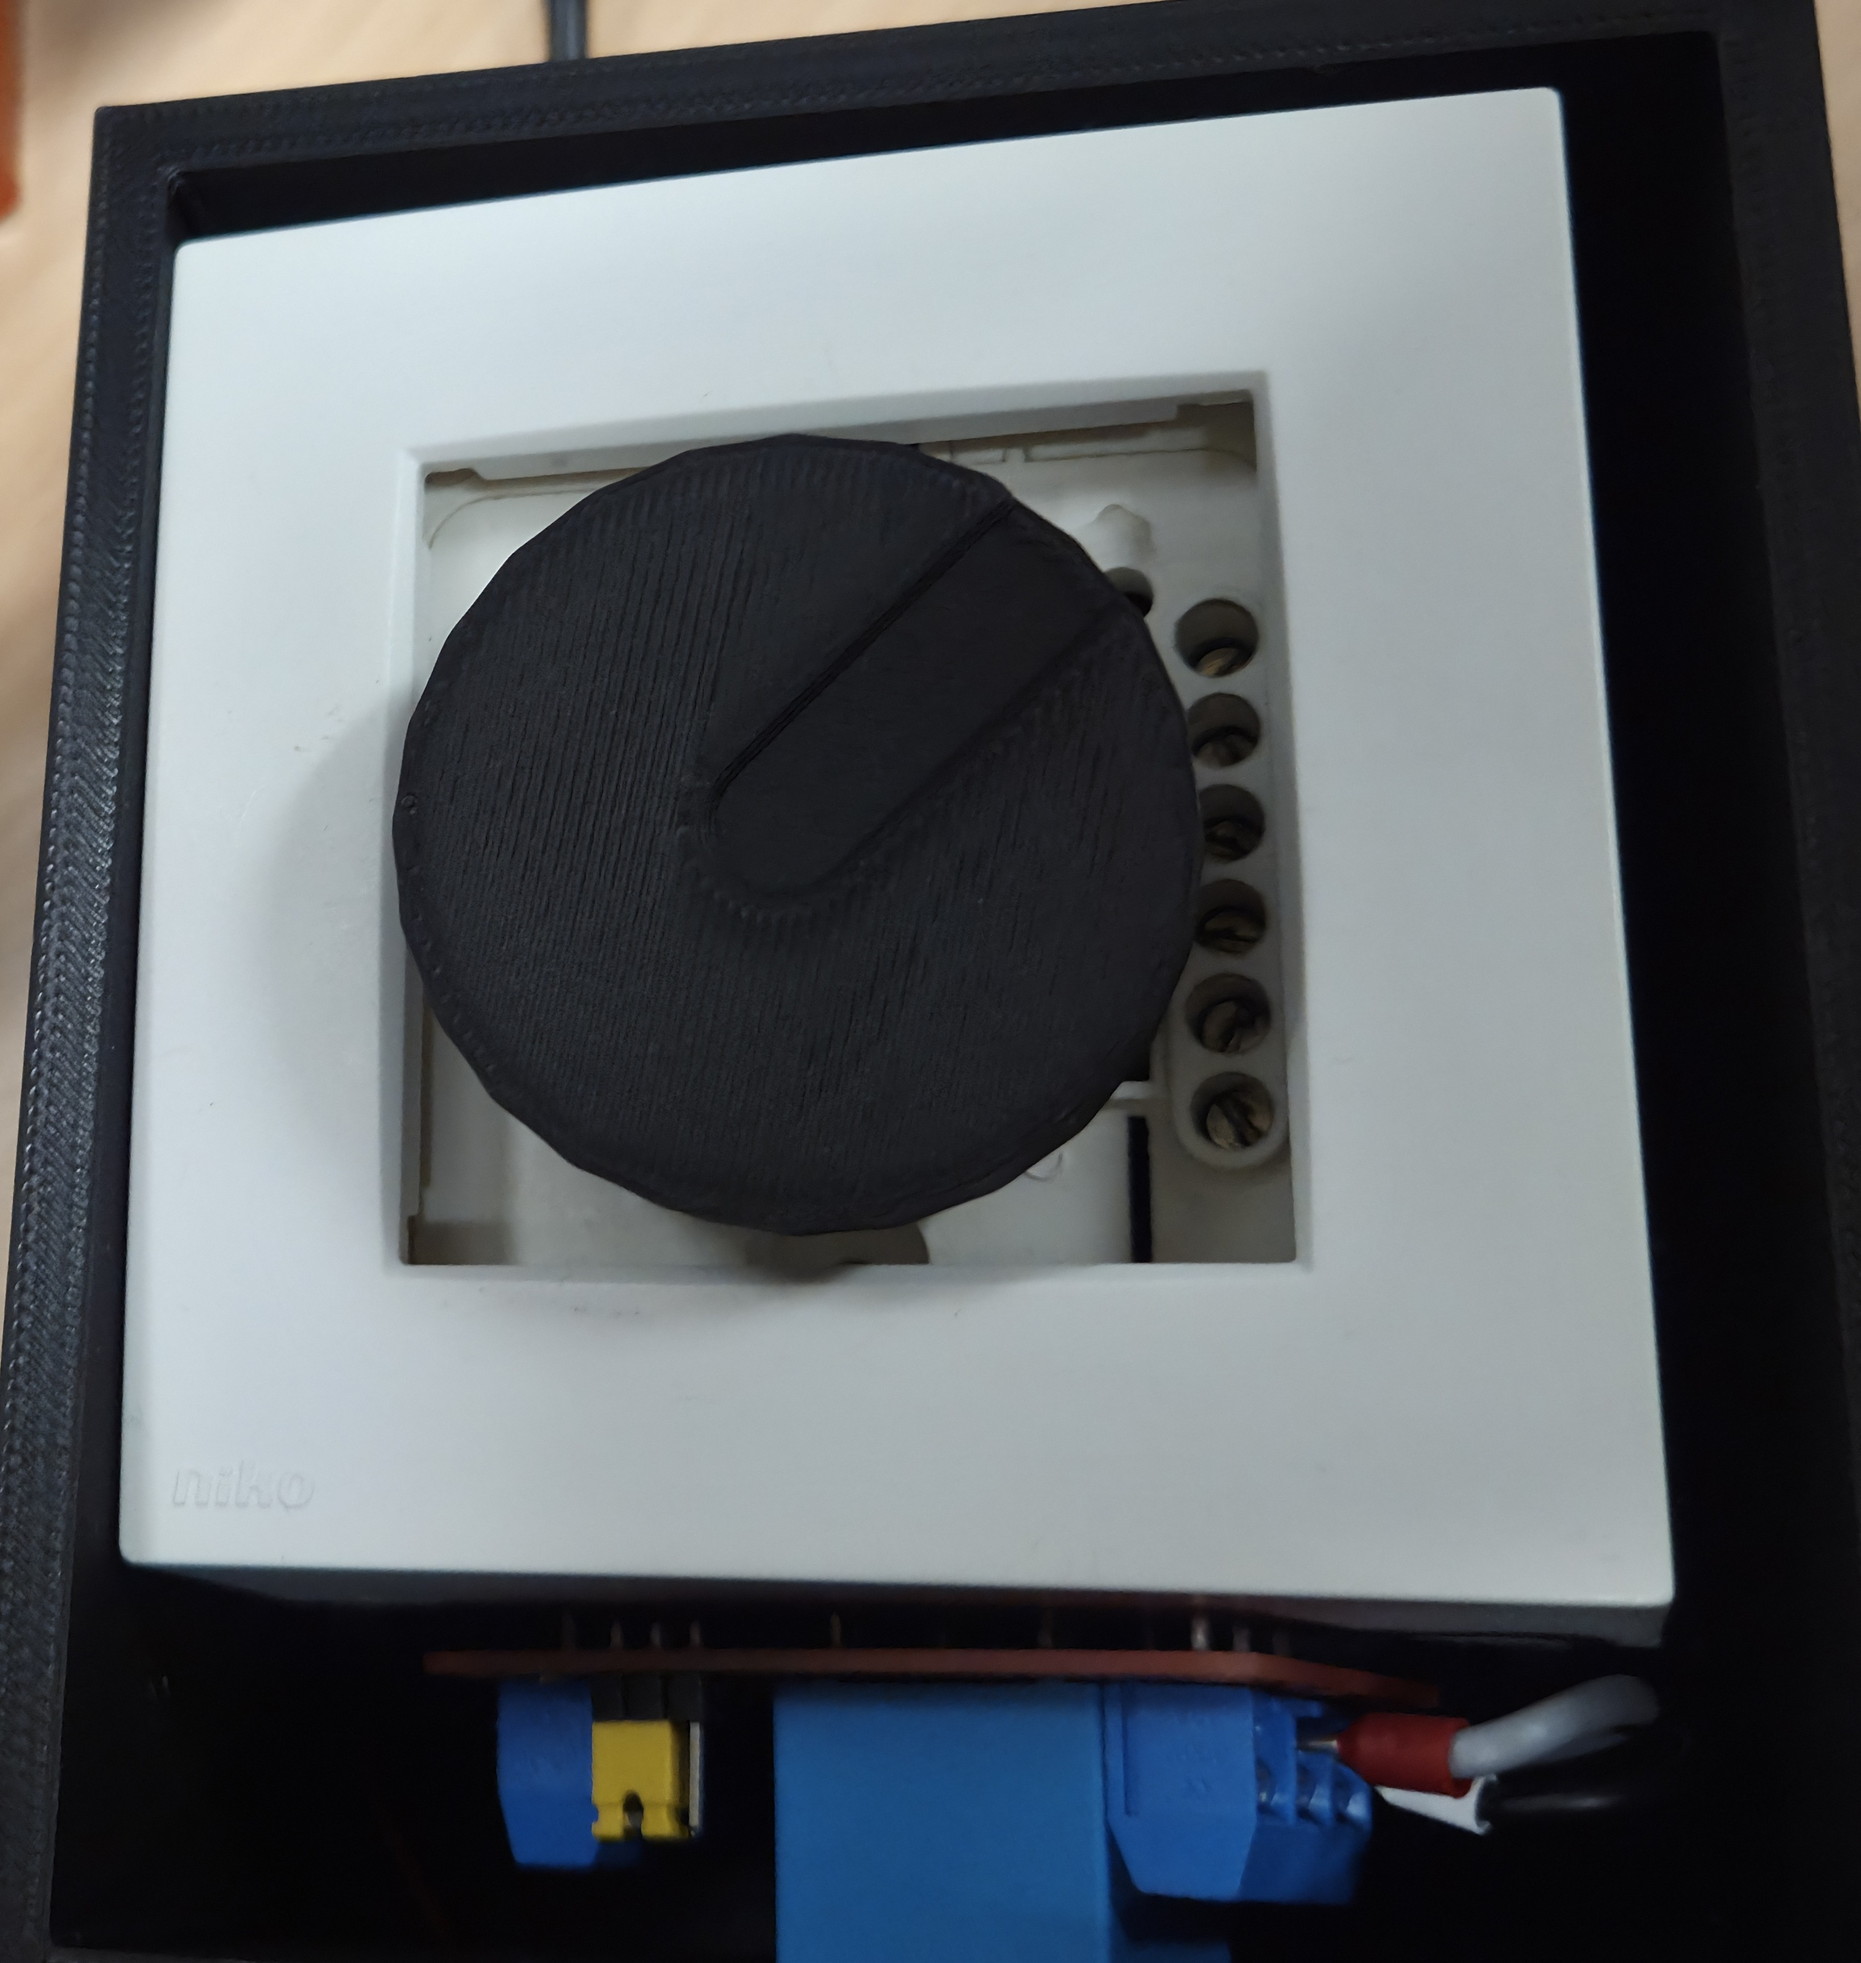
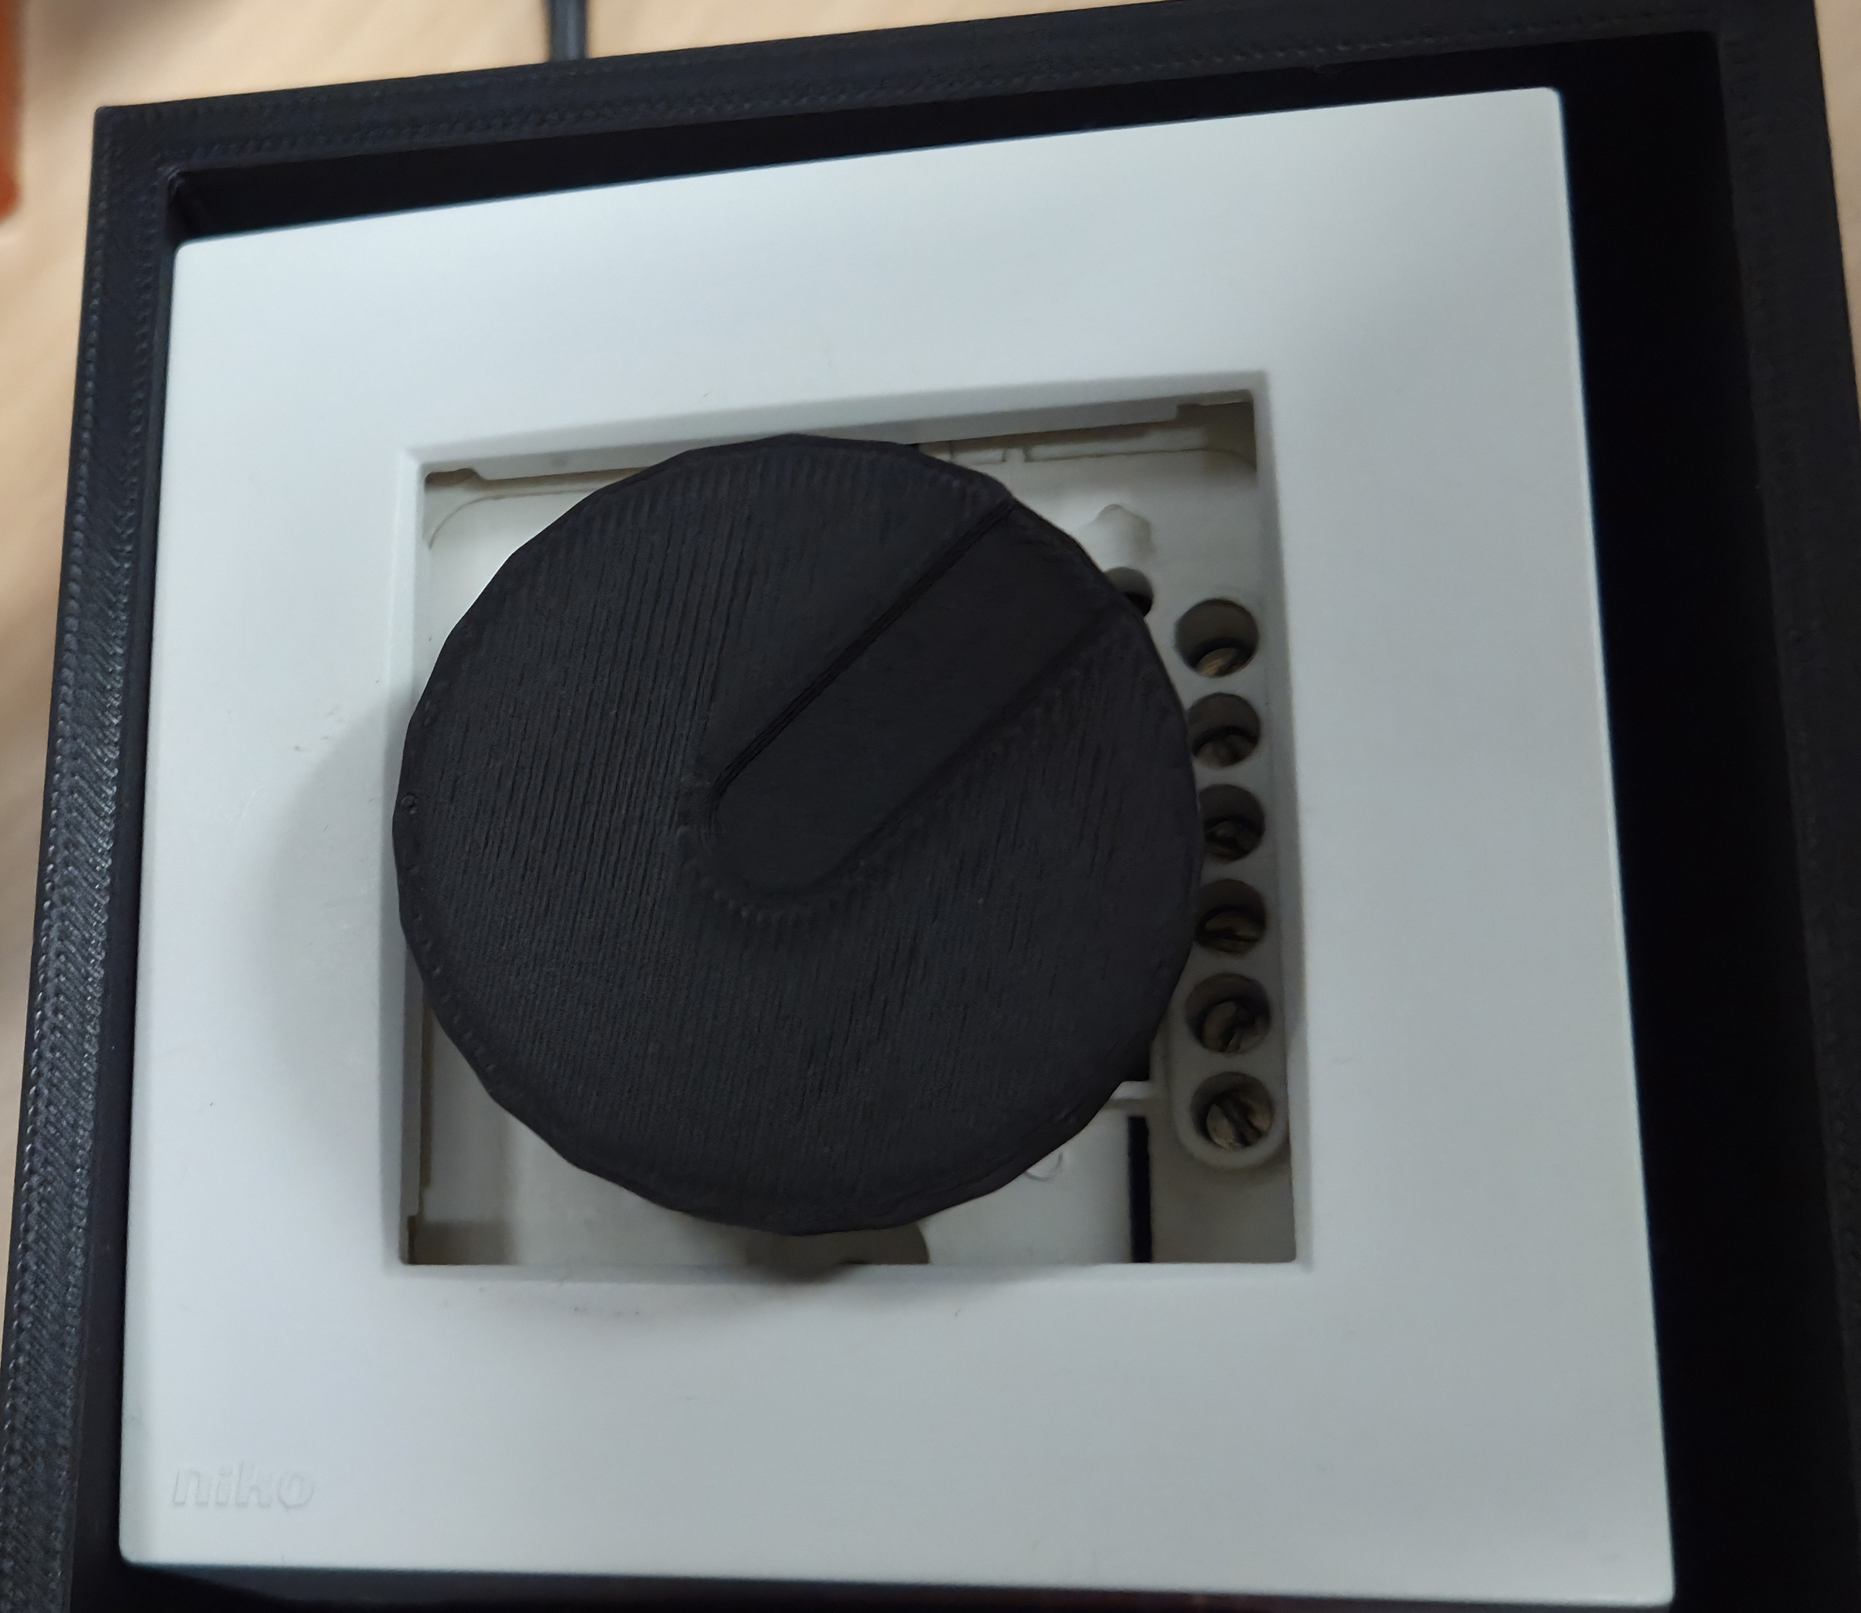
13/5/2026

diff --git a/website/index.html b/website/index.html
@@ -82,69 +82,28 @@
     </section>
     <section class="solution-full card-style">
       <h2>Onze oplossing</h2>
-      <h3>Trillmotor</h3>
-      <p>Wij hebben gekozen voor een trillmotor bij het bed van de gebruiker. 
-        Deze motor zorgt voor sterke trillingen die de gebruiker op een doeltreffende manier
-        wekt zonder geluid te maken. Op het ingestelde tijdstip begint de motor te trillen,
-        wat een fysieke prikkel geeft die moeilijk te negeren is. Dit maakt onze oplossing
-        ideaal voor dove of slechthorende personen die op een betrouwbare en comfortabele
-        manier wakker willen worden.
-      </p>
-      <div class="media-block">
-        <video src="video project.mp4" class="project-video" controls style="width:100%;max-width:600px;display:block;margin:1.5rem auto;"></video>
-      </div>
-      <h3>Raspberry Pi</h3>
-      <p>Met behulp van een Raspberry Pi kunnen we de trilwekker eenvoudig programmeren en aanpassen aan de wensen 
-        van de gebruiker. Door gebruik te maken van verschillende sensoren en modules, kunnen we de 
-        functionaliteit van de wekker uitbreiden en verbeteren. De Raspberry Pi maakt het mogelijk om de trillwekker 
-        van op afstand te bedienen en te configureren via een app of een ander apparaat. Hierdoor wordt het
-         gebruiksgemak vergroot en kan de gebruiker de wekker volledig afstemmen op zijn of haar behoeften.</p>
-      <div class="video-carousel">
-        <img src="raspberry-pi.png" alt="Raspberry Pi" class="carousel-img">
-      </div>
-      <h3>Touchscreen bediening</h3>
-      <p>
-        Bij onze Raspberry Pi hebben we een touchscreen toegevoegd. Dankzij dit touchscreen kunnen gebruikers eenvoudig en intuïtief de wekker instellen en aanpassen. Het programma op het scherm is overzichtelijk en gebruiksvriendelijk ontworpen, zodat je met een paar tikken het alarm kunt instellen, wijzigen of uitschakelen. 
-        Dit maakt het systeem toegankelijk voor iedereen, zonder dat er technische kennis nodig is. Het touchscreen zorgt ervoor dat de wekker snel en flexibel te bedienen is, wat het gebruiksgemak aanzienlijk vergroot.
-      </p>
-      <div class="slideshow-container">
-        <button class="slide-arrow left" onclick="plusSlides(-1)">&#10094;</button>
-        <div class="slide fade">
-          <img src="raspberry-pi-met-scherm.png" alt="Raspberry Pi met scherm">
-          <div class="caption">Raspberry Pi met touchscreen</div>
-        </div>
-        <div class="slide fade">
-          <img src="20260212_100342.png" alt="Raspberry Pi project foto 1">
-          <div class="caption">Raspberry Pi met touchscreen</div>
-        </div>
-        <div class="slide fade">
-          <img src="20260212_100344.png" alt="Raspberry Pi project foto 2">
-          <div class="caption">Raspberry Pi met touchscreen</div>
-        </div>
-        <div class="slide fade">
-          <img src="20260212_100348.png" alt="Raspberry Pi project foto 3">
-          <div class="caption">Raspberry Pi met touchscreen</div>
-        </div>
-        <button class="slide-arrow right" onclick="plusSlides(1)">&#10095;</button>
-      </div>
-      <div class="dots" style="text-align:center;">
-        <span class="dot" onclick="currentSlide(1)"></span>
-        <span class="dot" onclick="currentSlide(2)"></span>
-        <span class="dot" onclick="currentSlide(3)"></span>
-        <span class="dot" onclick="currentSlide(4)"></span>
-      </div>
-      <h3>3D-Prints</h3>
-      <ul>
-        <li>3D-print van de </li>
-        <li>3D-print van de </li>
-      </ul>
-    <h3>hardware configuratie</h3>
-    <ul>
-      <li>tekst</li>
-    </ul>
-    <img src="scherm.jpg" alt="scherm" class="project-img" style="max-width:300px; height:auto; display:block; margin:1rem auto;">
-    <img src="frequentieregelaar.jpg" alt="snelheidsregelaar" class="project-img" style="max-width:300px; height:auto; display:block; margin:1rem auto;">
-    </section>
+      <ul>Voor onze problemen moesten we natuurlijk ook oplossingen vinden.
+        We kozen voor een zeer sterke trilmotor, dit leverde een te sterke trilling op.</ul>
+        <img src="foto motor.png" alt="trilmotor" class="solution-img-motor">
+        <ul>
+          Door de motor te fixeren en te testen onder matten in de gymzaal, konden we de trilling optimaliseren voor onze toepassing.
+         Dit werd opgelost door een snelheidsregelaar of dimmer te gebruiken.
+         Nu kan de gebruiken de sterkte van de trilling zelf bepalen.</ul>
+         <img src="frequentieregelaar.jpg" alt="snelheidsregelaar" class="solution-img-dimmer">
+         <ul>
+          We konden niet veel doen met de Arduino en een korte evaluatie hebben we beslist om over te stappen naar een Raspberry Pi.
+           Dit is een mini computer die we aansturen via een code op de Raspberry Pi zelf.</ul>
+            <img src="raspberry-pi.png" alt="Raspberry Pi" class="solution-img-raspberry">
+            <img src="arduino.png" alt="Arduino" class="solution-img-arduino">
+              <ul>
+            Het hele interface is gemakkelijk te gebruiken dankzij een touchscreen. 
+            Deze overstap bleek over de komende weken veel gunstiger te zijn voor ons project. </ul>
+              <img src="scherm.jpg" alt="touchscreen" class="solution-img-touchscreen">
+                <ul>
+            Om de spanning van de Raspberry Pi te verhogen hebben we gebruik gemaakt van een relais.
+          Dit alles werd in een 3D geprinte omhuizing gemonteerd. </ul>
+          <img src="3d-print.jpg" alt="3D print" class="solution-img-3d-print">
+     </section>
     <footer class="site-footer">
     <p>&copy; 2026 Vibro Wake 3000 – Toegankelijke technologie voor iedereen</p>
   </footer>

diff --git a/website/logboek.html b/website/logboek.html
@@ -42,8 +42,8 @@ Tijdens de brainstormsessies verschoof de scope naar een innovatieve wekoplossin
         </ul>
         <strong>Belangrijke mijlpalen:</strong>
         <ul>
-          <li>Prototyping: Een eerste testopstelling van de motor wees uit dat de trillingsintensiteit te hoog was. Door de motor gefixeerd te testen (onder matten in de gymzaal), werd een optimaal trillingsniveau bereikt voor de beoogde toepassing.</li>
-          <li>Mechanische aanpassing: Er werd gekozen voor een oplossing waarbij assen werden afgefreesd en gelagerd om de gewenste mechanische overdracht te realiseren.</li>
+          <ul>Prototyping: Een eerste testopstelling van de motor wees uit dat de trillingsintensiteit te hoog was. Door de motor gefixeerd te testen (onder matten in de gymzaal), werd een optimaal trillingsniveau bereikt voor de beoogde toepassing.</ul>
+          <ul>Mechanische aanpassing: Er werd gekozen voor een oplossing waarbij assen werden afgefreesd en gelagerd om de gewenste mechanische overdracht te realiseren.</ul>
         </ul>
       </section>
       <section>
@@ -56,10 +56,10 @@ Strategische beslissing: Er werd besloten om over te stappen op de Raspberry Pi.
       <section>
         <h2>4. Engineering en Systeemintegratie (Januari – Februari 2026)</h2>
         <ul>
-          Begin 2026 lag de focus op de elektrische veiligheid en de integratie van de hardware-componenten.
-          <li>Elektronica: De installatie van een snelheidsregelaar en een relais maakte een nauwkeurige aansturing van de motor mogelijk.</li>
-          <li>Software & UI: Er werd gestart met de ontwikkeling van een touchscreen-interface. Met behulp van geavanceerde scripting werd de wekkerfunctionaliteit geprogrammeerd en getest op de Raspberry Pi.</li>
-          <li>Behuizing: In SketchUp werd een op maat gemaakte behuizing ontworpen voor de snelheidsregelaar en het relais, om een veilige en professionele afwerking te garanderen.</li>
+          Begin 2026 lag de focus op de elektrische veiligheid en de integratie van de hardware-componenten.</ul>
+          <ul>Elektronica: De installatie van een snelheidsregelaar en een relais maakte een nauwkeurige aansturing van de motor mogelijk.</ul>
+          <ul>Software & UI: Er werd gestart met de ontwikkeling van een touchscreen-interface. Met behulp van geavanceerde scripting werd de wekkerfunctionaliteit geprogrammeerd en getest op de Raspberry Pi.</ul>
+          <ul>Behuizing: In SketchUp werd een op maat gemaakte behuizing ontworpen voor de snelheidsregelaar en het relais, om een veilige en professionele afwerking te garanderen.</ul>
         </ul>
       </section>
       <section>

diff --git a/website/main.css b/website/main.css
@@ -227,7 +227,7 @@ ul {
 .main-nav {
   background: var(--navBg, var(--white));
   margin: 0 auto;
-  max-width: 900px;
+  max-width: 400px;
   border-radius: 0 0 24px 24px;
   box-shadow: 0 2px 12px rgba(0,0,0,0.07);
   position: relative;
@@ -263,13 +263,13 @@ ul {
   background: var(--primary);
   color: var(--white);
 }
-@media (max-width: 600px) {
+@media (max-width: 300px) {
   .main-nav ul {
     flex-direction: column;
     gap: 0.5rem;
   }
   .main-nav {
-    max-width: 100%;
+    max-width: 50%;
     border-radius: 0 0 16px 16px;
   }
 }
@@ -321,8 +321,8 @@ ul {
   box-shadow: 0 6px 24px rgba(0,0,0,0.13);
 }
 .team-img {
-  width: 110px;
-  height: 110px;
+  width: 40%;
+  height: auto;
   object-fit: cover;
   border-radius: 50%;
   margin-bottom: 1.1rem;
@@ -694,3 +694,55 @@ ul {
     scale: 1.12;
   }
 }
+.solution-img-motor {
+  width: 40%;
+  height: auto;
+  border-radius: 12px;
+  box-shadow: 0 2px 12px rgba(0,0,0,0.07);
+  rotate: -90deg;
+  margin-left: 250px;
+}
+.solution-img-dimmer{
+  width: 50%;
+  height: auto;
+  border-radius: 12px;
+  box-shadow: 0 2px 12px rgba(0,0,0,0.07);
+  margin-left: 250px;
+}
+.solution-img-row {
+  display: flex;
+  justify-content: center;
+  align-items: flex-start;
+  gap: 12px;
+  margin: 50px 0;
+}
+  .solution-img-raspberry {
+  width: 50%;
+  height: auto;
+  border-radius: 12px;
+  box-shadow: 0 2px 12px rgba(0,0,0,0.07);
+  margin-left: 35px;
+
+  }
+  .solution-img-arduino{
+  width: 40%;
+  height: auto;
+  border-radius: 12px;
+  box-shadow: 0 2px 12px rgba(0,0,0,0.07);
+  rotate: 90deg;
+  margin-left: 12px;
+  }
+.solution-img-touchscreen{
+  width: 50%;
+  height: auto;
+  border-radius: 12px;
+  box-shadow: 0 2px 12px rgba(0,0,0,0.07);
+  margin-left: 250px;
+  }
+  .solution-img-3d-print{
+    width: 50%;
+  height: auto;
+  border-radius: 12px;
+  box-shadow: 0 2px 12px rgba(0,0,0,0.07);
+  margin-left: 250px;
+  }
